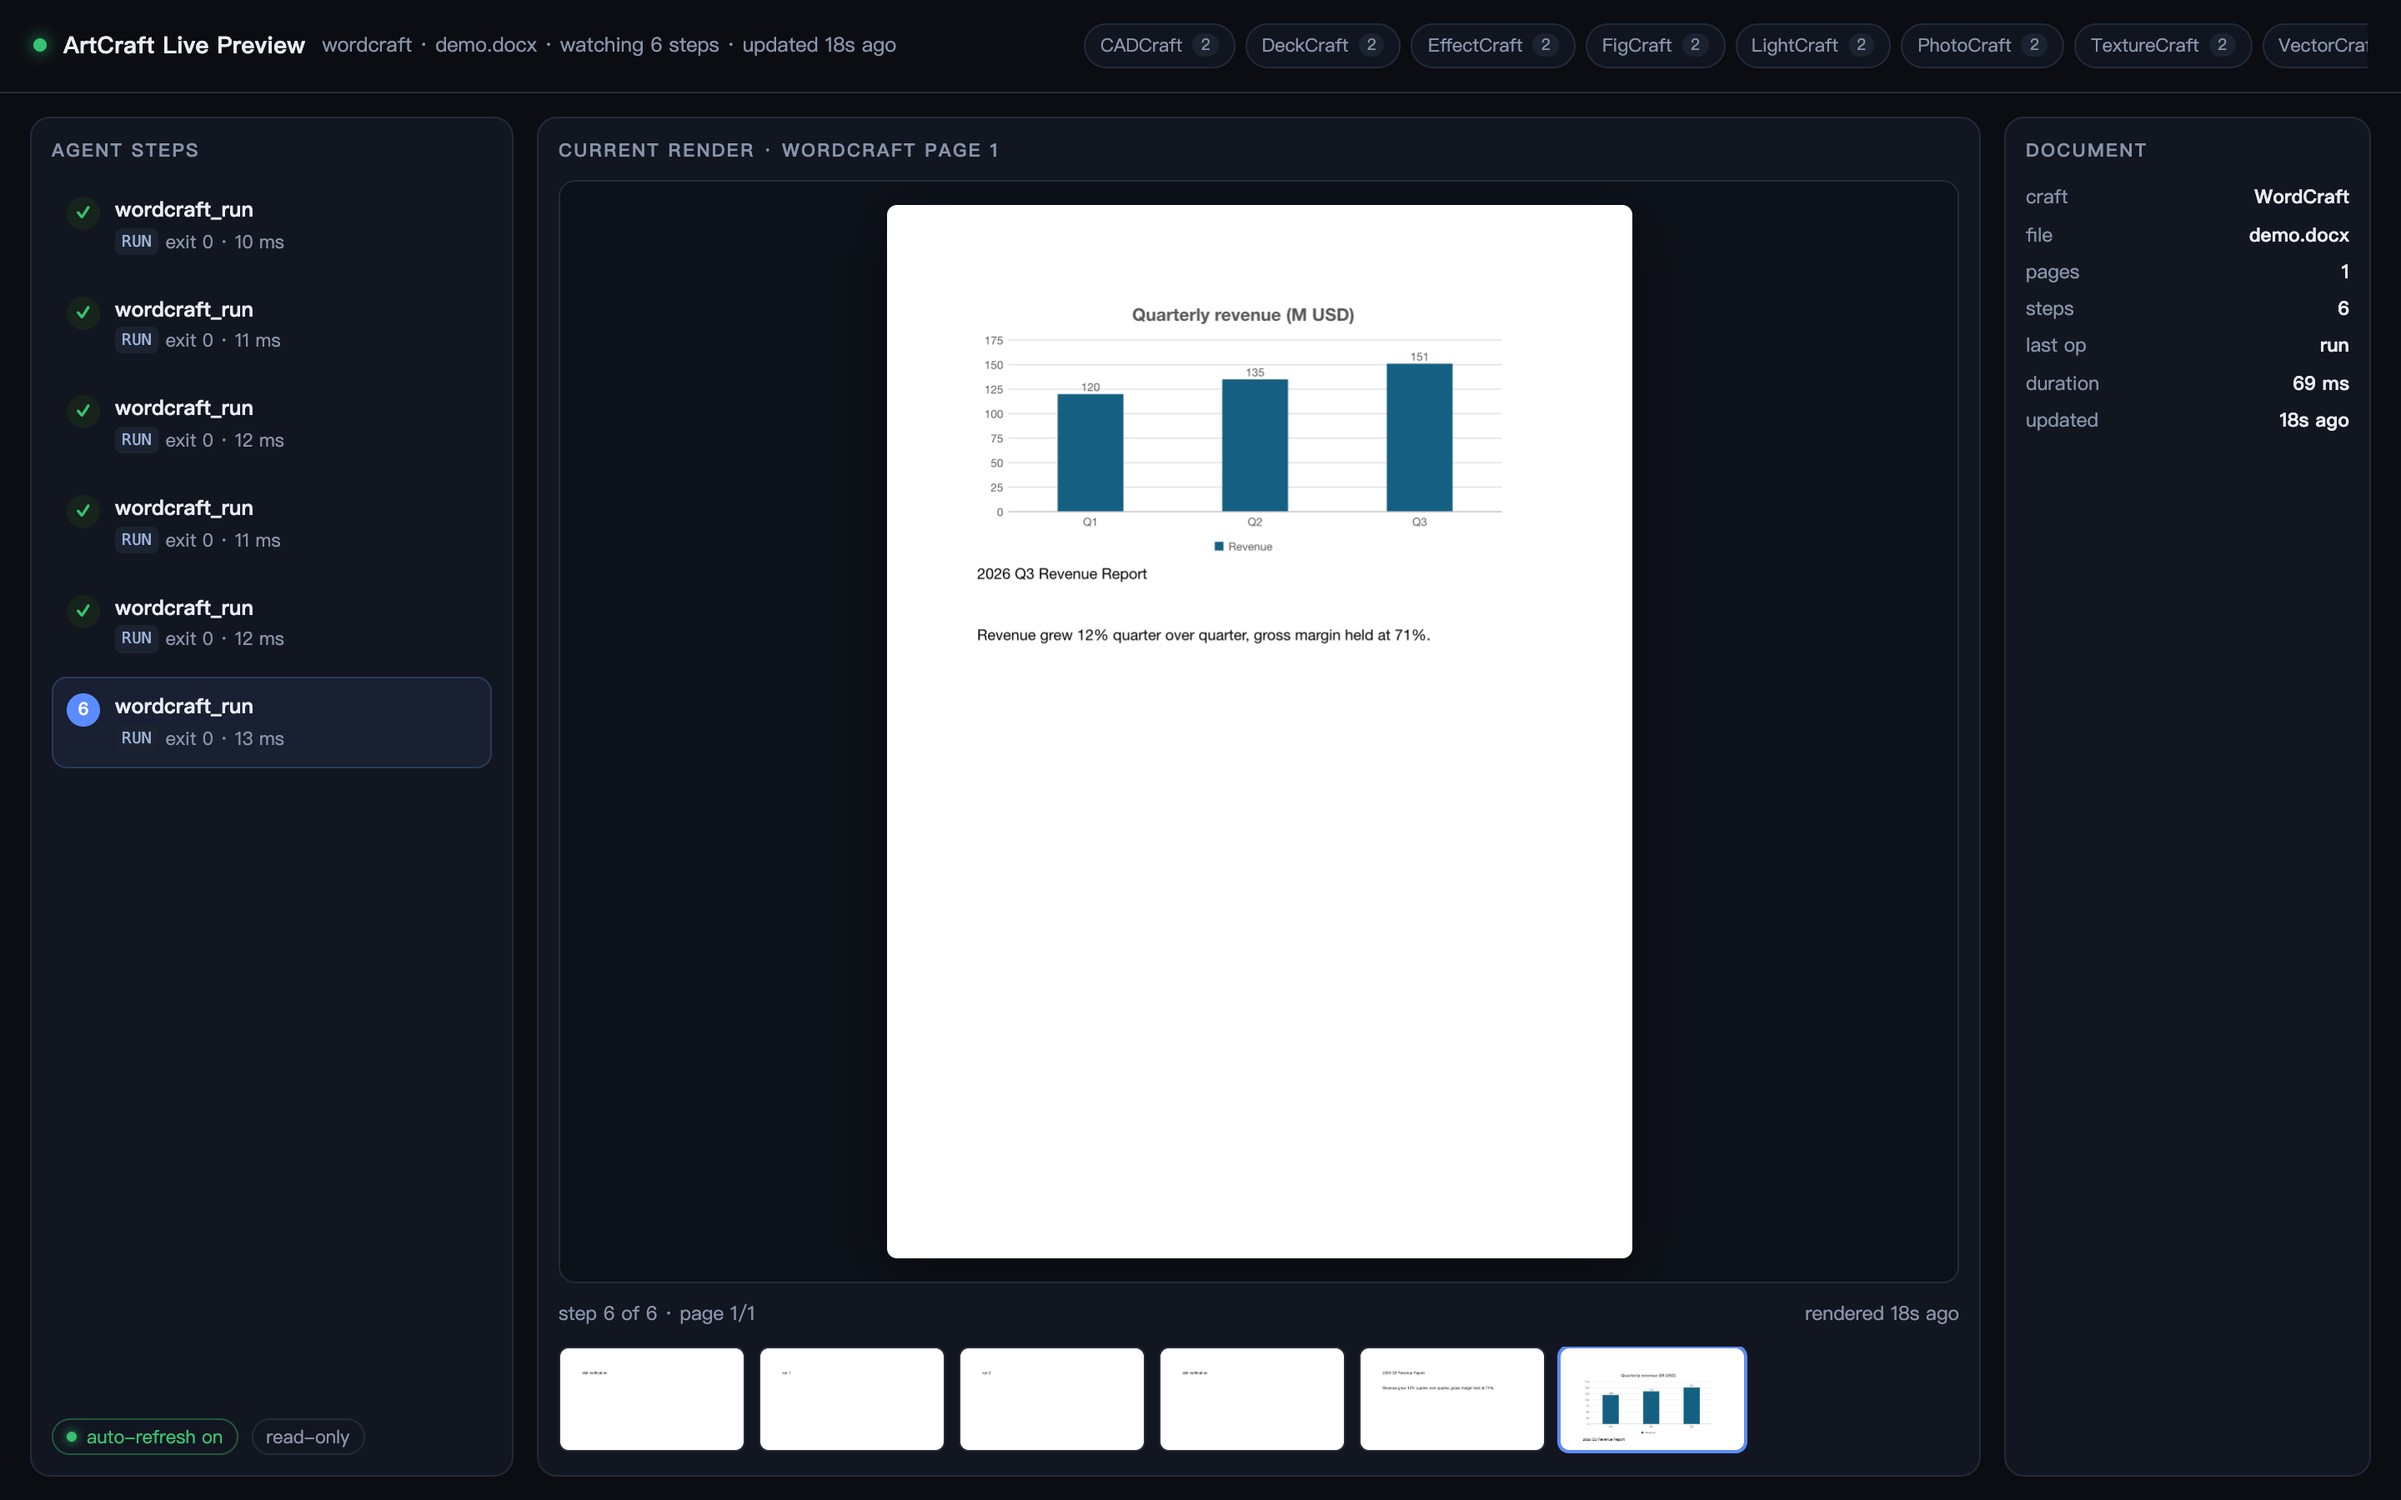
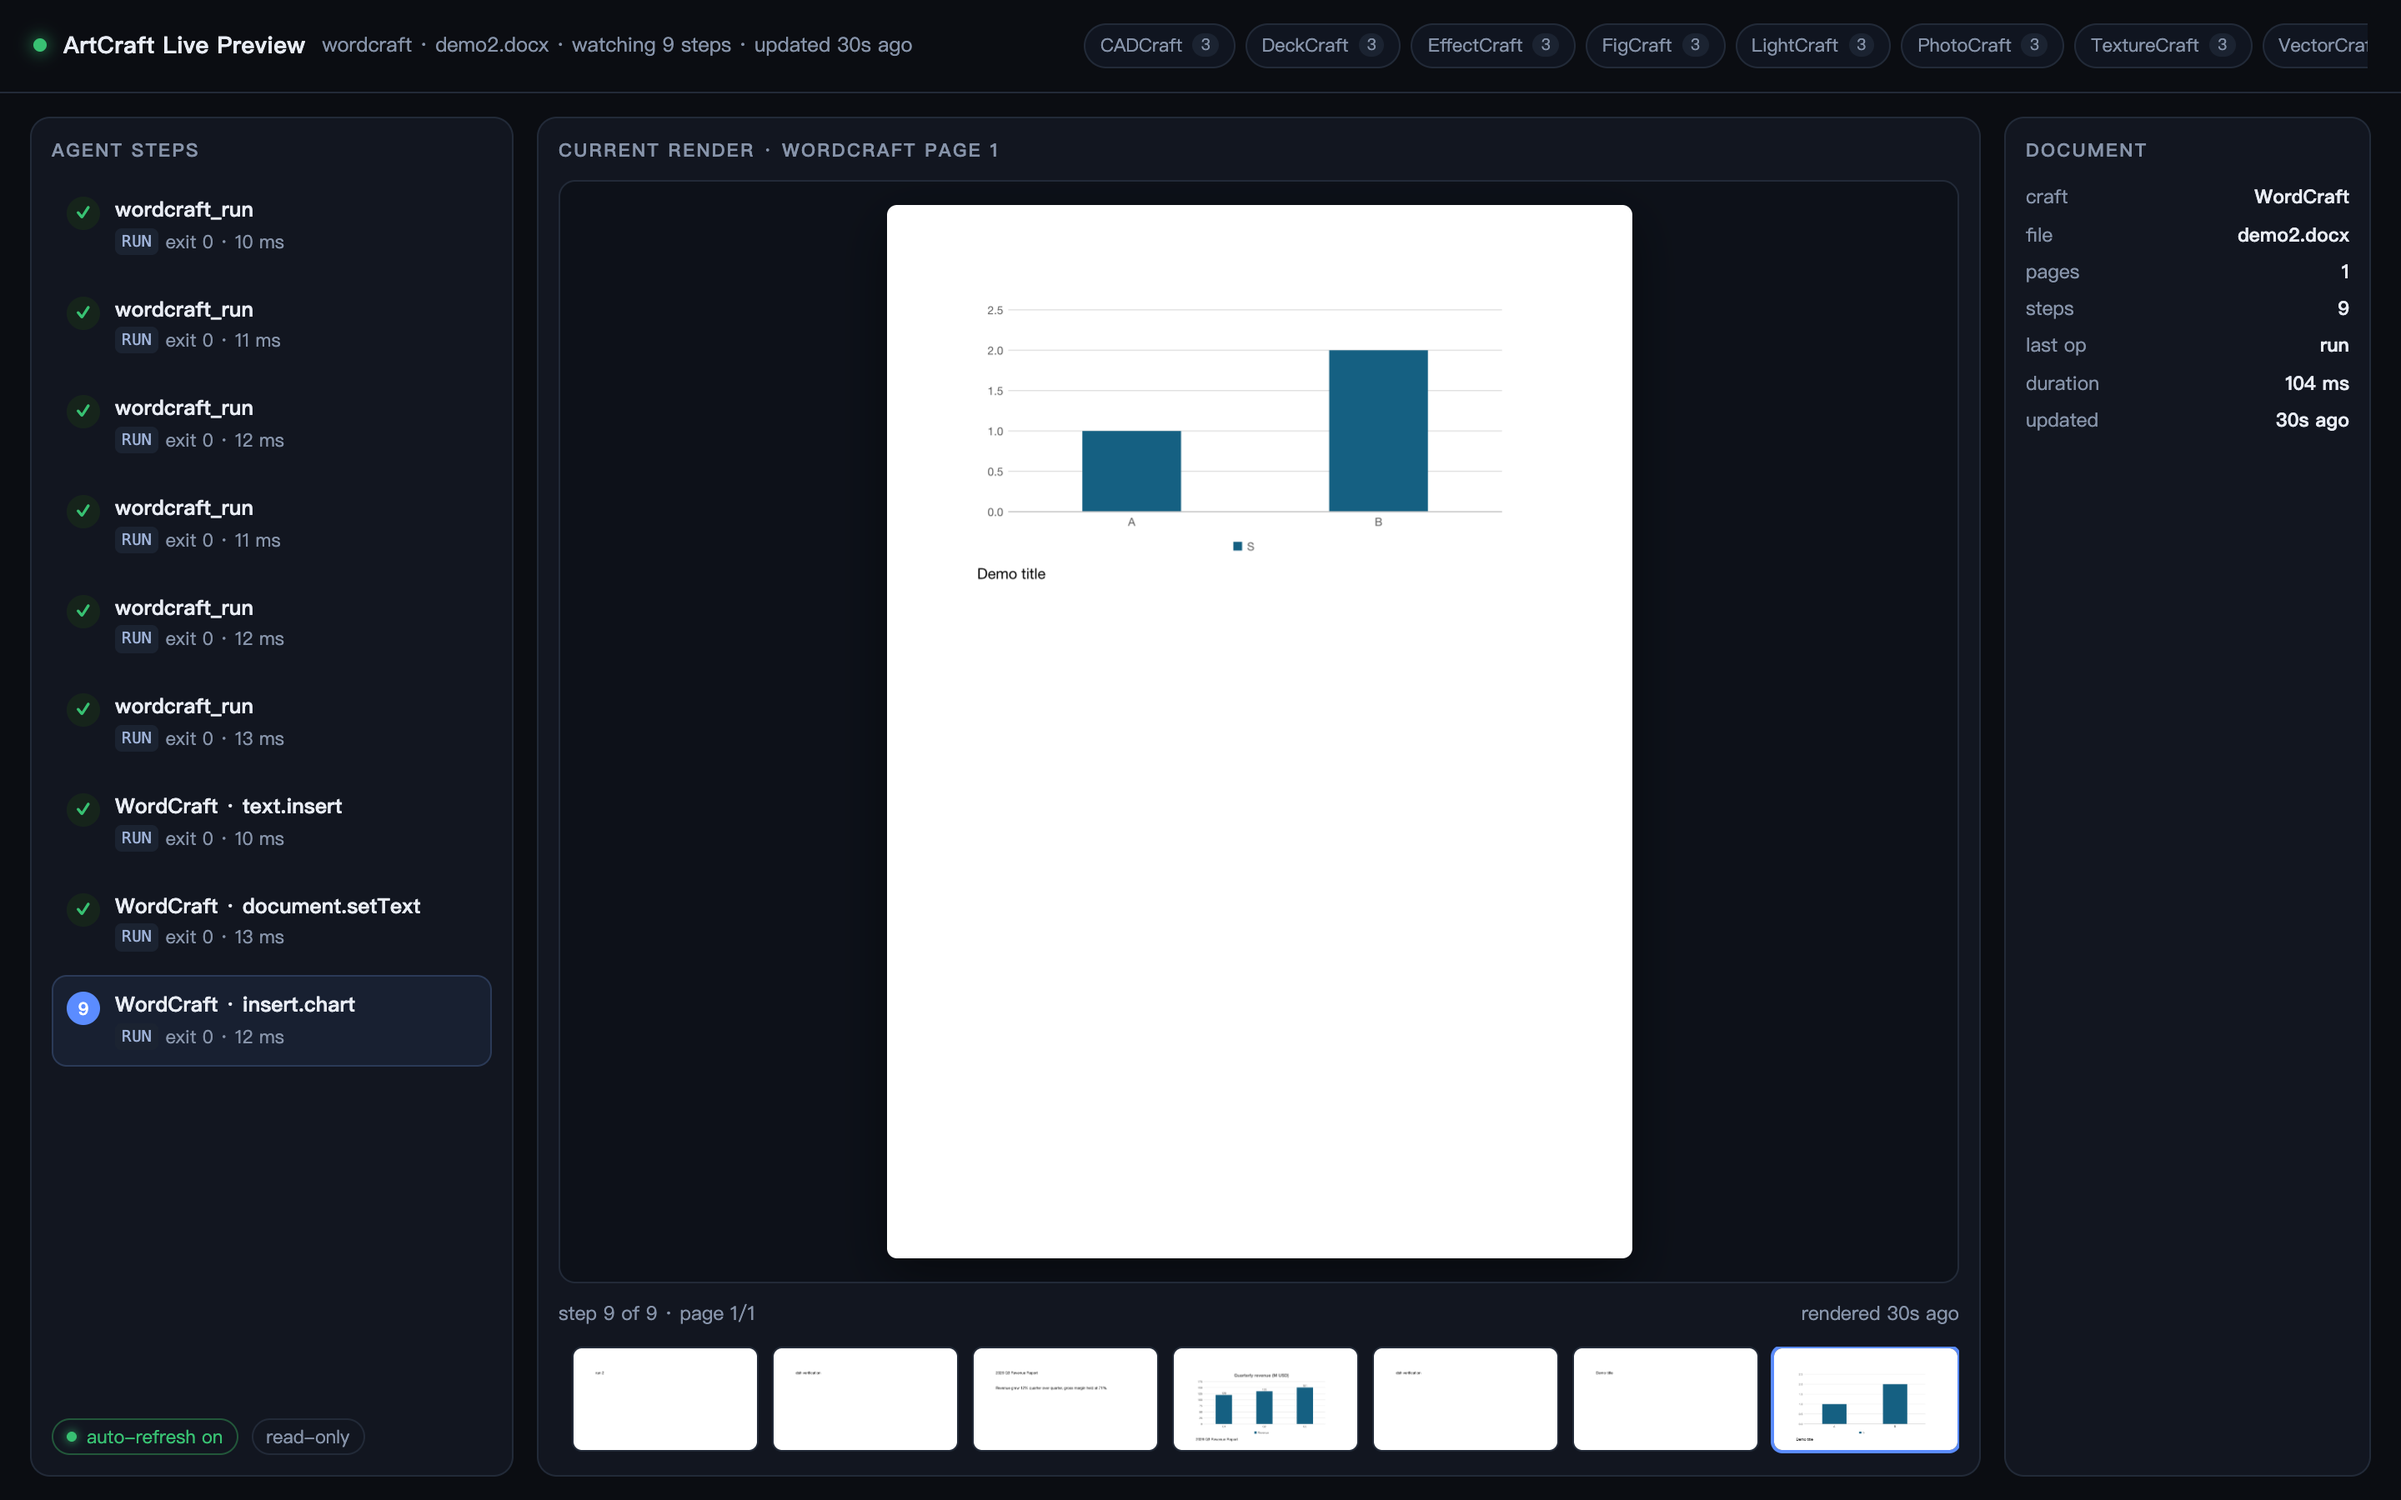
feat(preview): hardened panel, GUI screenshots, auto-start acceptance
Layer C is verified in a real DSH Web GUI (temp profile on 4199): the sidebar
launcher appears, the panel loads layer B over CORS, five WordCraft steps render
with step 5 current, the 800x1036 render decodes, five thumbnails load, four
crafts merge, FilmCraft's timeline shows three clips, one stylesheet is owned,
and the console is clean. Screenshots checked in under
dsh-plugins/preview-panel/screenshots/.

The panel package now ships the preview server and starts it when nothing
answers on 4177; tested from the installed profile copy after killing the
running server: apply() spawned it and /state returned nine crafts from the real
preview directory. Host-side spawn/probe failures are caught so the loader row
can never crash the host.

Versions: craft plugins 0.2.7, preview panel 0.1.2. Local only; not pushed.

diff --git a/dsh-plugins/preview-panel/README.md b/dsh-plugins/preview-panel/README.md
@@ -11,6 +11,15 @@ sidebar. It is the browser half of the three-layer preview contract in
 | B | the local state directory + HTTP server on `127.0.0.1:4177` |
 | **C** | **this package — the in-GUI panel that consumes layer B** |
 
+The package ships both halves of layer C:
+
+- **browser half** (`src/client.tsx` → `lib/client.js`) — the panel;
+- **host half** (`src/index.ts` → `src/index.js`) — an ordinary Loader row that
+  starts the packaged layer-B preview server when nothing is answering on
+  `127.0.0.1:4177`. A profile install has no ArtCraft checkout to run layer B
+  from, so the server and its page travel inside the package (`server/`, copied
+  from `scripts/preview/` at build time). An already-running instance wins.
+
 ![The panel inside the DSH Web GUI](screenshots/panel-in-gui.png)
 
 ## What it shows
@@ -40,21 +49,22 @@ When `/state` cannot be read, the panel says why: the server may be down, or a
 cross-origin read may have been refused for lack of `Access-Control-Allow-Origin`.
 It keeps the last good snapshot through a transient failure and marks it `stale`.
 
-### Layer B requirements
+### Preview server and origin policy
 
-- The custom panel needs the preview server to allow the GUI origin to read
-  `/state` (CORS). The current server grants loopback origins only, so open the
-  GUI on `127.0.0.1`/`localhost`; a non-loopback hostname is refused by design.
-- `Raw page` additionally needs layer B to allow framing (`frame-ancestors`).
-  The current server allows `'self'` plus loopback origins.
-- The preview server is not started by this package. Layer B owns it
-  (`node scripts/preview/server.mjs` in the ArtCraft workspace).
+- The packaged server is the current layer-B implementation: loopback only,
+  read-only, CORS granted to loopback origins, and the panel page frameable by
+  loopback origins.
+- Open the GUI on a loopback hostname (`127.0.0.1`/`localhost`). A GUI served
+  through a LAN hostname is refused by layer B's CORS/framing policy; `Open`
+  still shows the preview in its own tab.
+- The server writes nothing; the craft plugins own the state directory
+  (`$DSH_ARTCRAFT_PREVIEW_DIR`, or `$DSH_HOME/artcraft/preview`).
 
 ## Install
 
-The panel is one browser-side plugin plus a no-op host row. It has no runtime
-dependencies of its own: at runtime it uses only `react` and
-`react/jsx-runtime`, both provided by the Web shell.
+The panel needs no npm runtime dependencies: at runtime the browser side uses
+only `react` and `react/jsx-runtime` (provided by the Web shell), and the host
+side uses Node built-ins plus the packaged server.
 
 ### As a profile bundle (recommended)
 
@@ -101,28 +111,51 @@ one-row insert, used automatically in the bundle route.
 
 Installing this package does not require rebuilding the DSH Web app. The running
 `dsh web` process must be **restarted** (the client module scan composes the
-browser roster at boot), and the page reloaded.
+browser roster at boot, and the host half starts the preview server there), and
+the page reloaded.
+
+## Host half: starting layer B
+
+On Loader activation, `src/index.ts`:
+
+1. probes `GET http://127.0.0.1:4177/state` with a short timeout;
+2. if it answers, does nothing (another instance, e.g. the layer-B agent's own
+   server, keeps ownership);
+3. otherwise spawns the packaged server detached:
+   `node server/server.mjs --port 4177 --dir <preview dir>`, where the directory
+   is `$DSH_ARTCRAFT_PREVIEW_DIR` or `$DSH_HOME/artcraft/preview`.
+
+A failed probe/spawn is swallowed (with a child `error` listener and a rejection
+handler), so a missing preview server can never crash the host; the panel shows
+its “not reachable” notice instead. The spawned process is detached and outlives
+the DSH process on purpose: it is a read-only local service, and the next boot
+reuses it. To stop it, kill the `server/server.mjs` process on port 4177.
 
 ## Build
 
-`src/client.tsx` is the authored browser source; `src/index.ts` is the no-op
-Node loader entry. Both built artifacts are committed, so installing the package
-never needs the compiler:
+`src/client.tsx` is the authored browser source; `src/index.ts` is the host
+entry. Build artifacts and the vendored server are committed, so installing the
+package never needs the compiler:
 
 | Artifact | Source | Shape |
 |---|---|---|
 | `src/index.js` | `src/index.ts` by type-stripping | ESM, `export function apply()` |
 | `lib/client.js` | `src/client.tsx` by TypeScript + CJS wrap | `window.__ModuleLoader__.load({ id, factory })` |
+| `server/server.mjs`, `server/panel.html` | copied from `scripts/preview/` | layer-B server + page |
 
 ```sh
-node scripts/build.mjs             # rebuild both
-node scripts/verify.mjs            # manifest + host import + bundle VM + type-check
+node scripts/build.mjs             # rebuild both entries, refresh server/
+node scripts/verify.mjs            # manifest + host + server + bundle VM + type-check
 ```
 
 `build.mjs` needs a TypeScript compiler. This package has no `node_modules` of
 its own by design, so it looks for the compiler a DSH checkout already carries:
 `DSH_TYPESCRIPT`, then `DSH_HARNESS_ROOT`, then the `<workspace>/deepseek-harness`
 sibling convention, then a normal resolution.
+
+The server copy is refreshed only by `build.mjs`. If `scripts/preview/` changes,
+run the build again, or the vendored copy drifts (the verify script prints a
+`note` when it detects drift against a checkout).
 
 ### Why the bundle is not built with `packages/client/tsdown.client.ts`
 
@@ -176,16 +209,20 @@ because the Web shell seeds it into the frozen module table.
 
 - the manifest declares the required `dsh.client` shape, and the `./client`,
   `.`, and bundle-patch paths exist;
-- the host entry imports as ESM and its `apply()` is a no-op;
+- the host entry imports as ESM and exports `apply()`;
+- the packaged `server/server.mjs` and `server/panel.html` exist, the server
+  parses under the current Node, and the page carries its marker (drift against
+  a checkout is reported as a note);
 - the browser bundle parses, registers **one** factory under the package name,
   materializes with only `react`/`react/jsx-runtime` requested, exports
   `inject = ['slots']`, and `apply()` registers exactly the `main` panel and the
   `sidebar.panellist` launcher and injects one owned stylesheet;
-- both TypeScript sources type-check with zero diagnostics.
+- both TypeScript sources type-check with zero diagnostics (browser program with
+  DOM+React types; host program with Node types).
 
 The screenshots in [`screenshots/`](screenshots) were taken in a real `dsh web`
 instance (harness `0.2.1-rc.3`) with this package installed as a profile bundle
-in a temporary `DSH_HOME`, against the real layer B server and its fixture
+in a temporary `DSH_HOME`, against the real layer-B server and its fixture
 state:
 
 - `panel-in-gui.png` — the whole GUI, WordCraft with 5 steps and a live render;
@@ -197,6 +234,9 @@ The browser run asserted: sidebar launcher present, status `ok`, 5 steps with
 step 5 current, 5 thumbnails with the last active, the render decoded at its real
 size (800×1036), 4 crafts offered, metadata matching the document, the FilmCraft
 timeline with 3 clips, one owned stylesheet, and **no console or page errors**.
+The host half's auto-start also ran in a real profile: its spawned
+`server/server.mjs --port 4177 --dir <DSH_HOME>/artcraft/preview` process was
+observed serving `/state` before the panel connected.
 
 ## Version coupling and risks
 
@@ -223,13 +263,21 @@ Failure modes to know about:
   way. `build.mjs` compiles the bundle once before writing it, and
   `verify.mjs` executes the registration path in a VM, which catches the common
   mistakes before install.
-- **Layer B drift**: the normalizer accepts both a flat `crafts[craft]` state
-  and a `{ index, state }` wrapper, and prefers `imageUrl`/`thumbUrl` when the
-  server publishes them, but a renamed endpoint or field still needs a change
-  here. The panel degrades to the notice/iframe fallback rather than crashing.
+- **Vendored layer B drift**: `server/` is a copy of `scripts/preview/` in this
+  workspace, not an npm dependency. Layer B's owner can change the state
+  contract, headers, or page while this copy stays at its last build. Refresh
+  with `node scripts/build.mjs` and watch the drift note in `verify.mjs`.
+- **Detached server lifecycle**: the host half starts a process that outlives
+  DSH by design (port 4177, loopback only, read-only). A stale build keeps
+  serving until that process is killed; a second DSH instance reuses it instead
+  of starting another.
+- **Layer B drift in the panel**: the normalizer accepts both a flat
+  `crafts[craft]` state and a `{ index, state }` wrapper, and prefers
+  `imageUrl`/`thumbUrl` when published, but a renamed endpoint or field still
+  needs a change here. The panel degrades to the notice/iframe fallback rather
+  than crashing.
 - **Origin policy**: the custom panel only works for a loopback GUI origin
-  against the current layer B; a GUI served through a LAN hostname must use
-  `Open`.
+  against layer B; a GUI served through a LAN hostname must use `Open`.
 
 The package intentionally ships as plain committed JavaScript plus a tiny build
 script, so a future harness can keep it loading even if its build tooling
